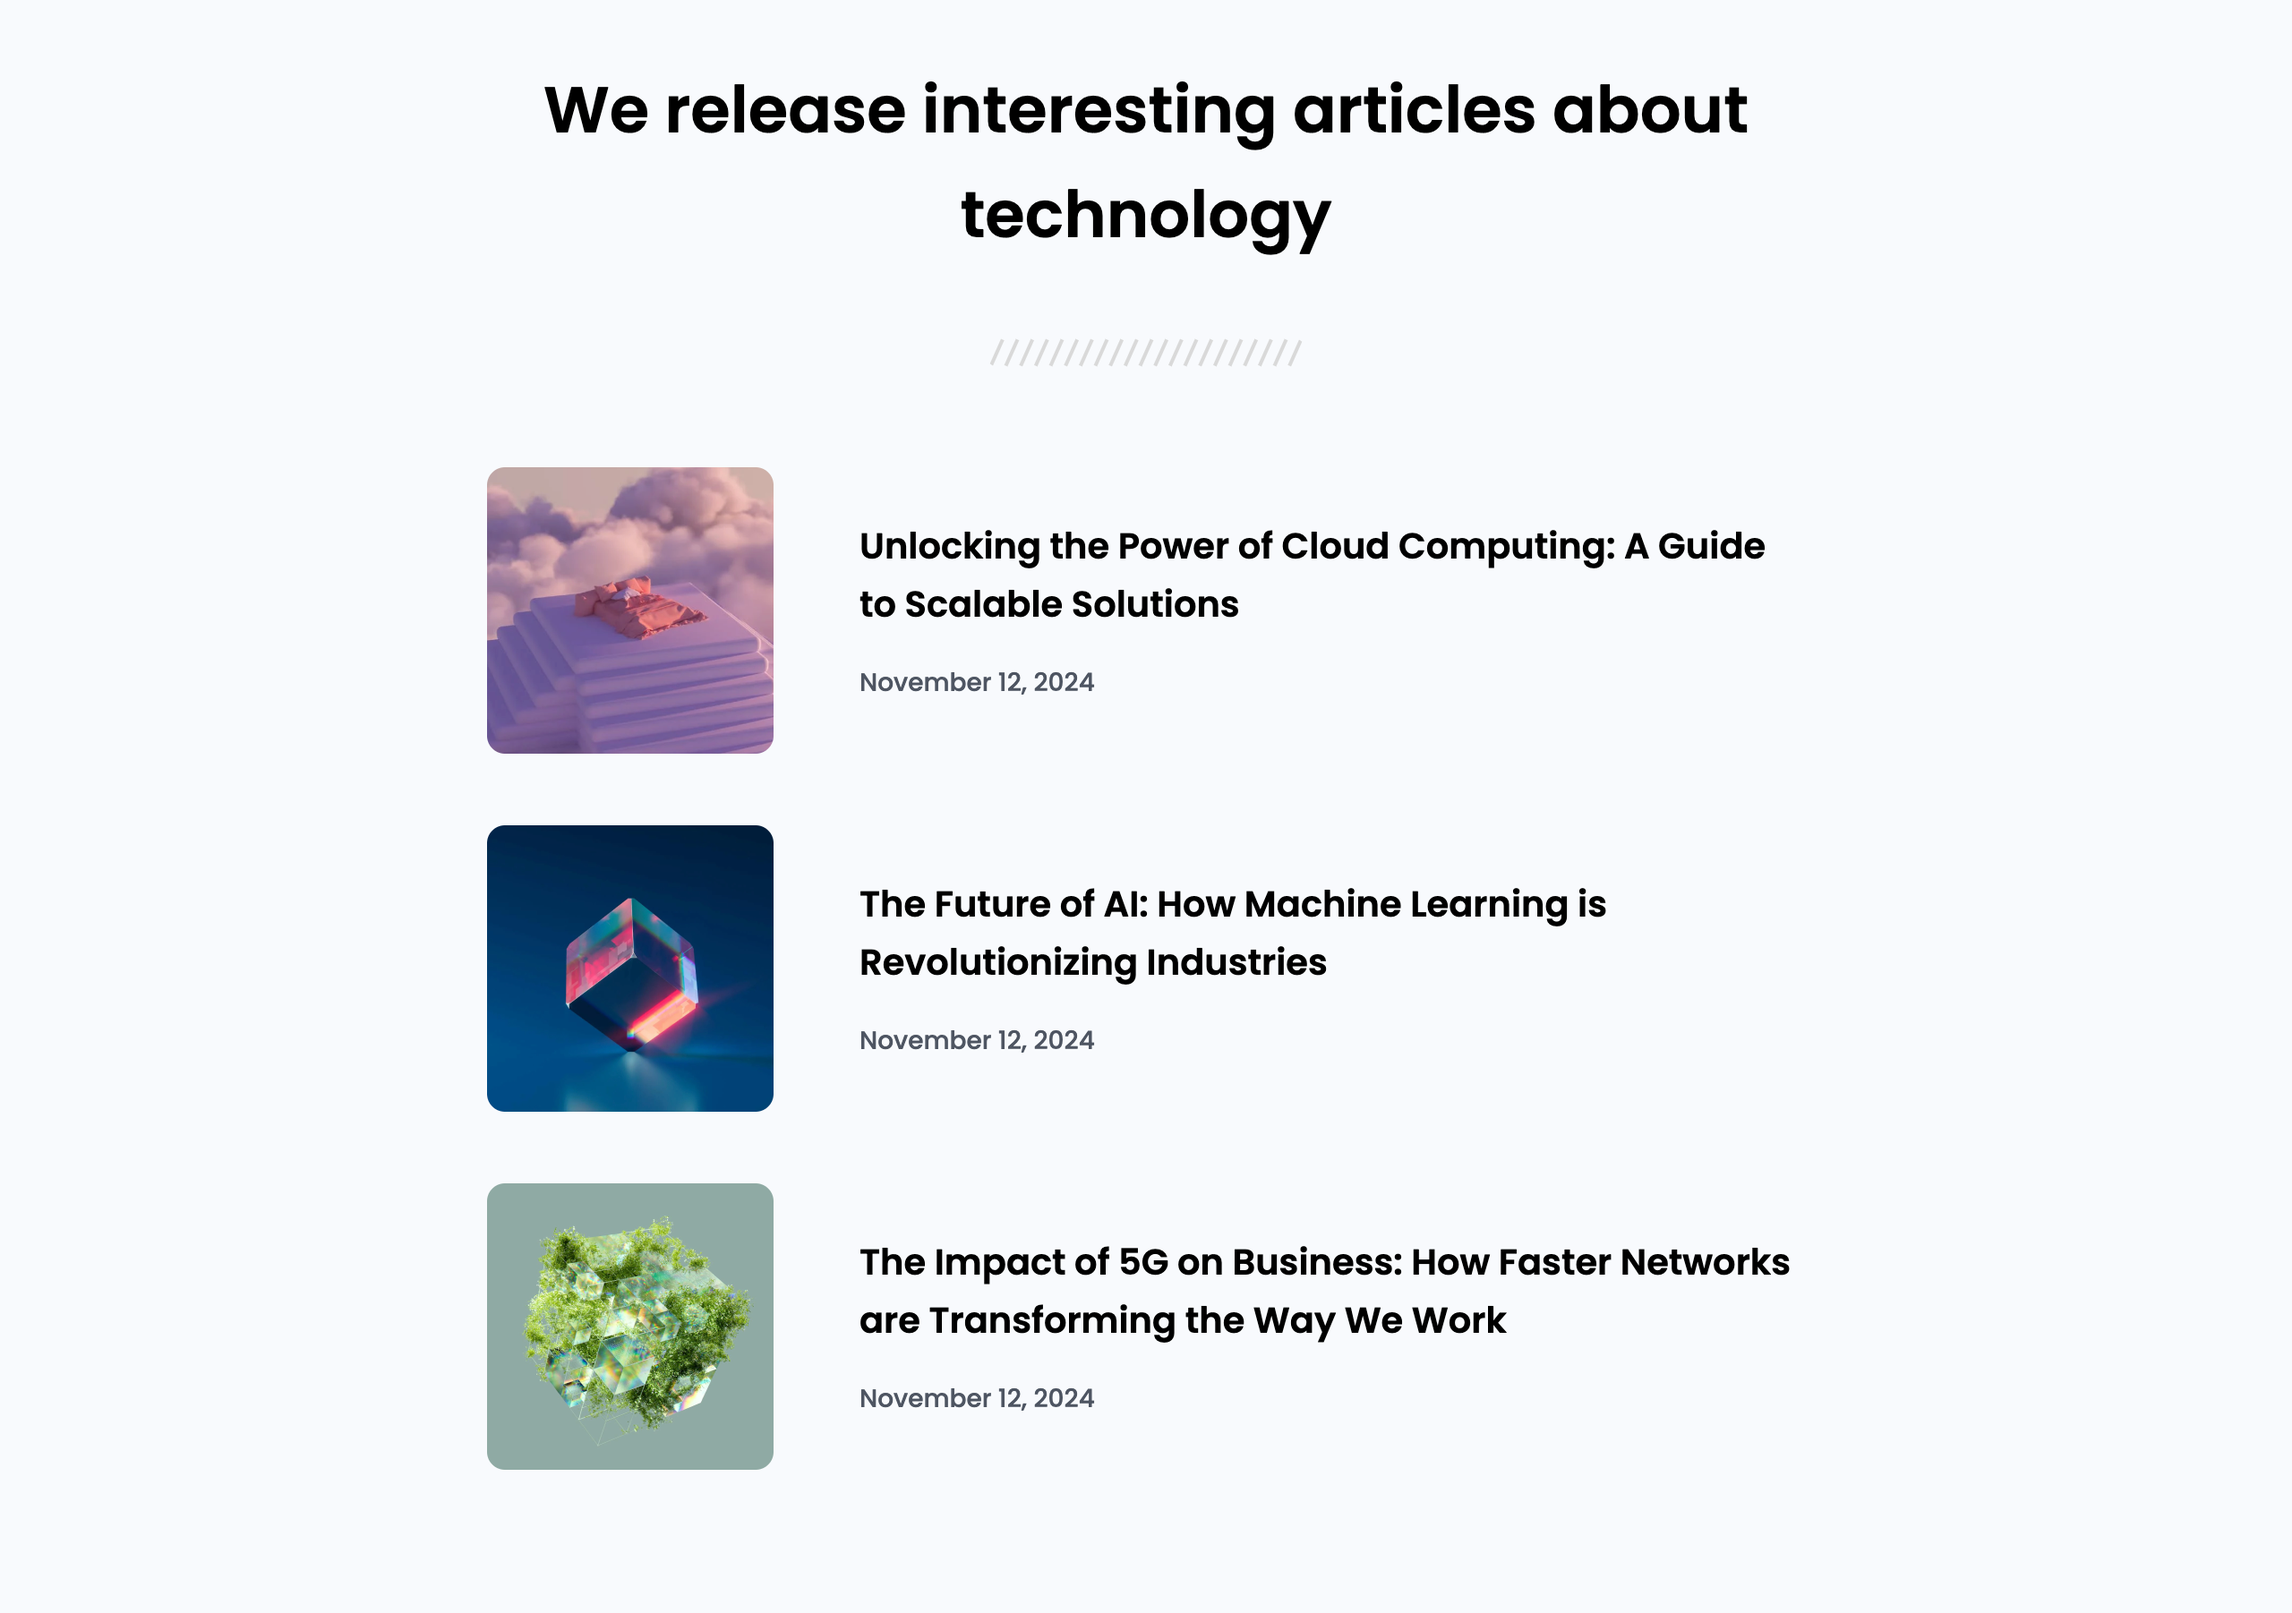
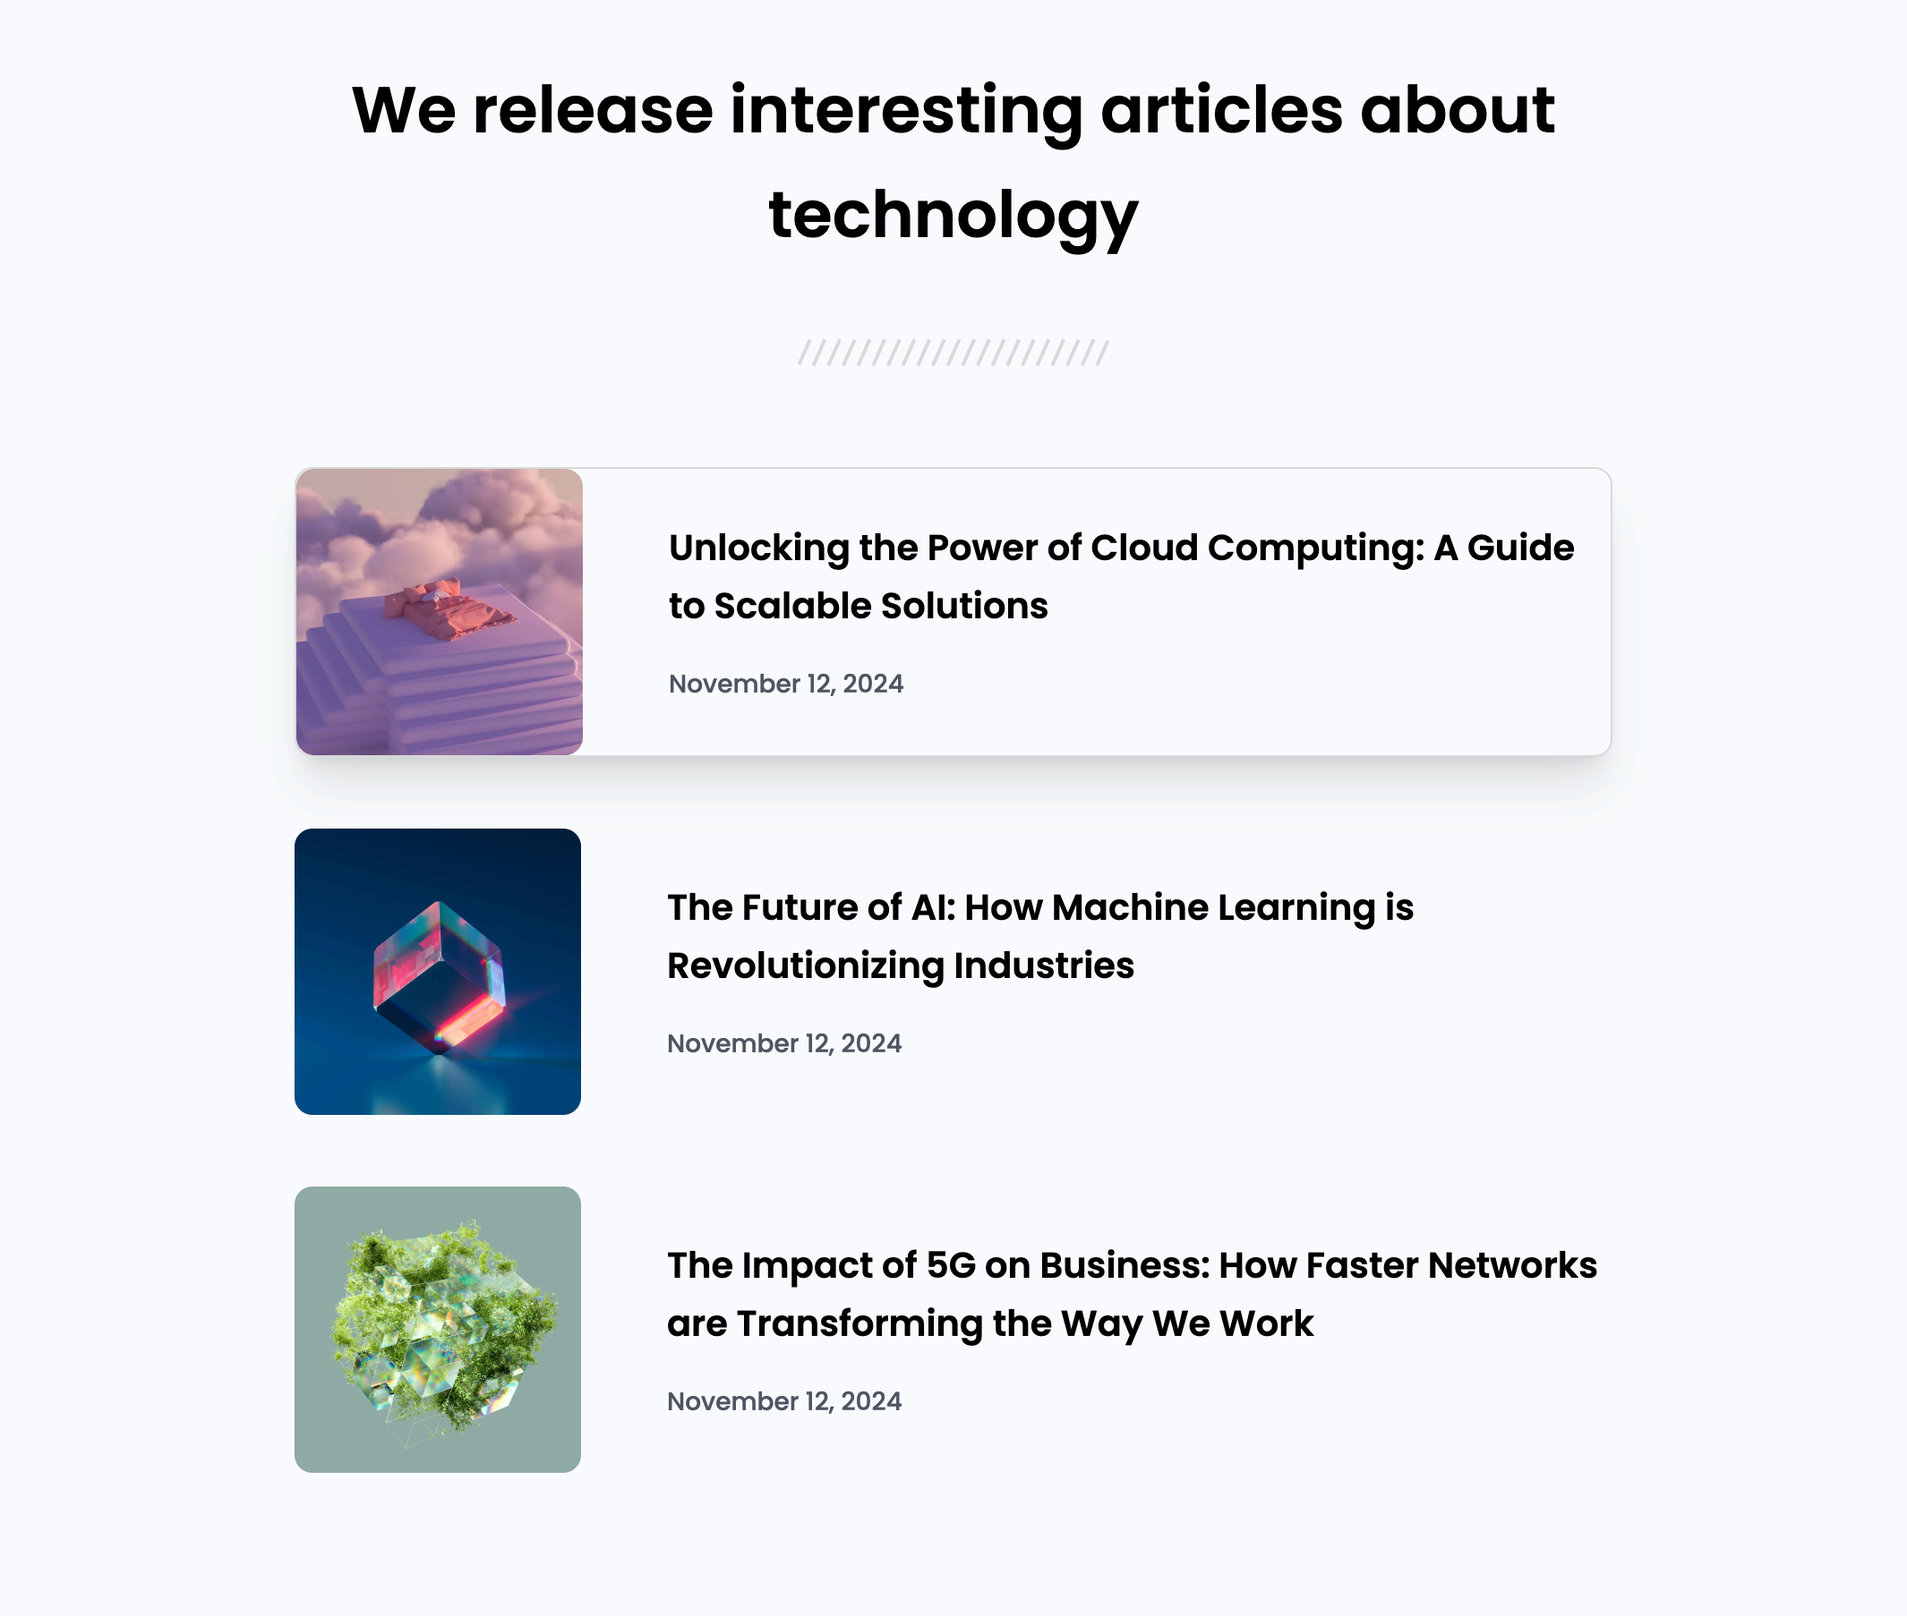
feat: add hover effects and accessibility

diff --git a/index.html b/index.html
@@ -74,7 +74,7 @@
     class="h-screen text-[0.875rem] leading-relaxed text-dark font-poppins bg-white"
   >
     <header
-      class="max-w-3xl mx-auto flex flex-col justify-center items-center text-center mx-auto px-2 pt-8 gap-10 mb-4"
+      class="max-w-3xl mx-auto flex flex-col justify-center items-center text-center px-2 pt-8 gap-10 mb-4"
     >
       <h1 class="text-[2.25rem] font-semibold">
         We release interesting articles about technology
@@ -84,68 +84,83 @@
           src="./image/Seperator.svg"
           alt=""
           class="rounded-[10px] w-full h-auto"
+          aria-hidden="true"
+          role="presentation"
         />
       </div>
     </header>
-    <main
-      class="max-w-3xl mx-auto text-center pt-10 pb-20 px-4 flex flex-col gap-10"
-    >
-      <div class="flex gap-12 items-center text-left">
-        <div class="w-24 sm:w-40 flex-shrink-0">
-          <picture>
-            <source srcset="./image/photo_1.png" media="(max-width: 639px)" />
-            <img
-              src="./image/photo_1@2x.png"
-              alt="image 1"
-              class="rounded-[10px] w-full h-auto"
-            />
-          </picture>
-        </div>
-        <div class="flex flex-col gap-4">
-          <div class="text-[1.25rem] font-semibold">
-            Unlocking the Power of Cloud Computing: A Guide to Scalable
-            Solutions
+    <main class="max-w-3xl mx-auto text-center pt-10 pb-20 px-4">
+      <section class="flex flex-col gap-10">
+        <article
+          class="flex gap-12 items-center text-left rounded-[10px] cursor-pointer border border-transparent hover:shadow-xl hover:border-grayLight"
+        >
+          <div class="w-24 sm:w-40 flex-shrink-0">
+            <picture>
+              <source srcset="./image/photo_1.png" media="(max-width: 639px)" />
+              <img
+                src="./image/photo_1@2x.png"
+                alt="Cloud Computing Article Thumbnail"
+                class="rounded-[10px] w-full h-auto"
+              />
+            </picture>
           </div>
-          <div class="font-[500] text-gray">November 12, 2024</div>
-        </div>
-      </div>
-      <div class="flex gap-12 items-center text-left">
-        <div class="w-24 sm:w-40 flex-shrink-0">
-          <picture>
-            <source srcset="./image/photo_2.png" media="(max-width: 639px)" />
-            <img
-              src="./image/photo_2@2x.png"
-              alt="image 2"
-              class="rounded-[10px] w-full h-auto"
-            />
-          </picture>
-        </div>
-        <div class="flex flex-col gap-4">
-          <div class="text-[1.25rem] font-semibold">
-            The Future of AI: How Machine Learning is Revolutionizing Industries
+          <div class="flex flex-col gap-4">
+            <h2 class="text-[1.25rem] font-semibold">
+              Unlocking the Power of Cloud Computing: A Guide to Scalable
+              Solutions
+            </h2>
+            <time datetime="2024-11-12" class="font-[500] text-gray"
+              >November 12, 2024</time
+            >
           </div>
-          <div class="font-[500] text-gray">November 12, 2024</div>
-        </div>
-      </div>
-      <div class="flex gap-12 items-center text-left">
-        <div class="w-24 sm:w-40 flex-shrink-0">
-          <picture>
-            <source srcset="./image/photo_3.png" media="(max-width: 639px)" />
-            <img
-              src="./image/photo_3@2x.png"
-              alt="image 3"
-              class="rounded-[10px] w-full h-auto"
-            />
-          </picture>
-        </div>
-        <div class="flex flex-col gap-4">
-          <div class="text-[1.25rem] font-semibold">
-            The Impact of 5G on Business: How Faster Networks are Transforming
-            the Way We Work
+        </article>
+        <article
+          class="flex gap-12 items-center text-left rounded-[10px] cursor-pointer border border-transparent hover:shadow-xl hover:border-grayLight"
+        >
+          <div class="w-24 sm:w-40 flex-shrink-0">
+            <picture>
+              <source srcset="./image/photo_2.png" media="(max-width: 639px)" />
+              <img
+                src="./image/photo_2@2x.png"
+                alt="Cloud Computing Article Thumbnail"
+                class="rounded-[10px] w-full h-auto"
+              />
+            </picture>
           </div>
-          <div class="font-[500] text-gray">November 12, 2024</div>
-        </div>
-      </div>
+          <div class="flex flex-col gap-4">
+            <h2 class="text-[1.25rem] font-semibold">
+              The Future of AI: How Machine Learning is Revolutionizing
+              Industries
+            </h2>
+            <time datetime="2024-11-12" class="font-[500] text-gray"
+              >November 12, 2024</time
+            >
+          </div>
+        </article>
+        <article
+          class="flex gap-12 items-center text-left rounded-[10px] cursor-pointer border border-transparent hover:shadow-xl hover:border-grayLight"
+        >
+          <div class="w-24 sm:w-40 flex-shrink-0">
+            <picture>
+              <source srcset="./image/photo_3.png" media="(max-width: 639px)" />
+              <img
+                src="./image/photo_3@2x.png"
+                alt="Cloud Computing Article Thumbnail"
+                class="rounded-[10px] w-full h-auto"
+              />
+            </picture>
+          </div>
+          <div class="flex flex-col gap-4">
+            <h2 class="text-[1.25rem] font-semibold">
+              The Impact of 5G on Business: How Faster Networks are Transforming
+              the Way We Work
+            </h2>
+            <time datetime="2024-11-12" class="font-[500] text-gray"
+              >November 12, 2024</time
+            >
+          </div>
+        </article>
+      </section>
     </main>
   </body>
 </html>
